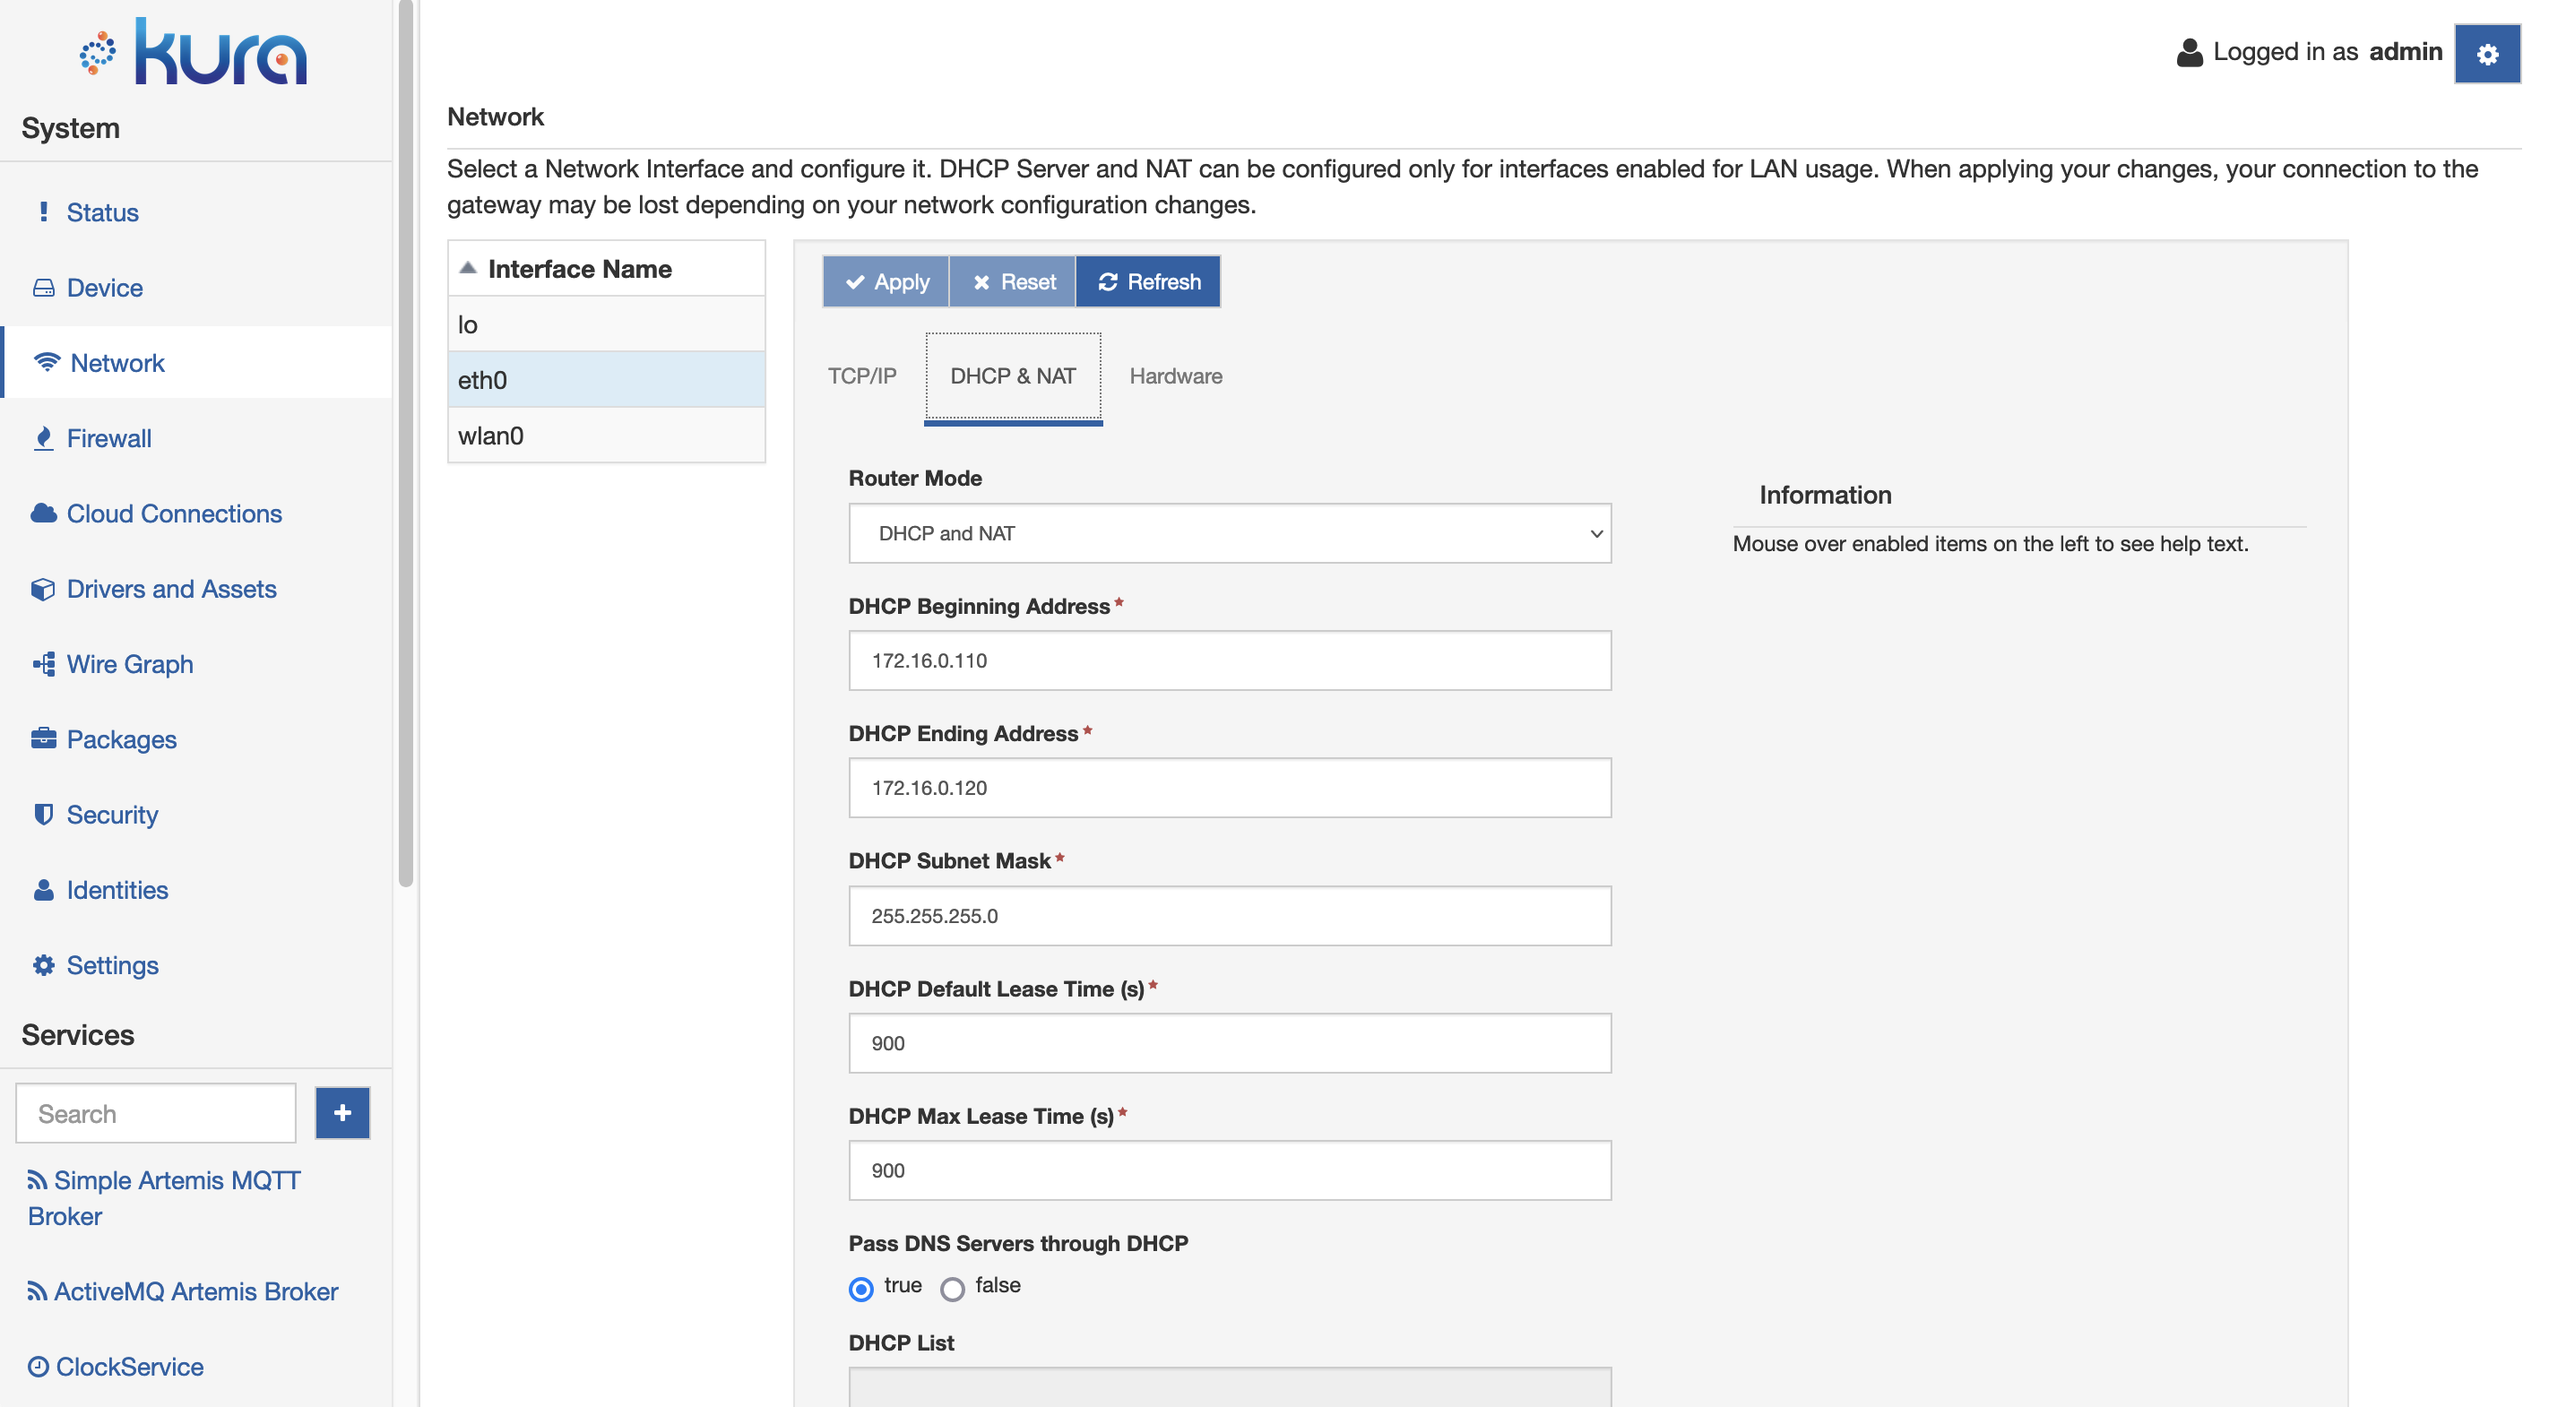
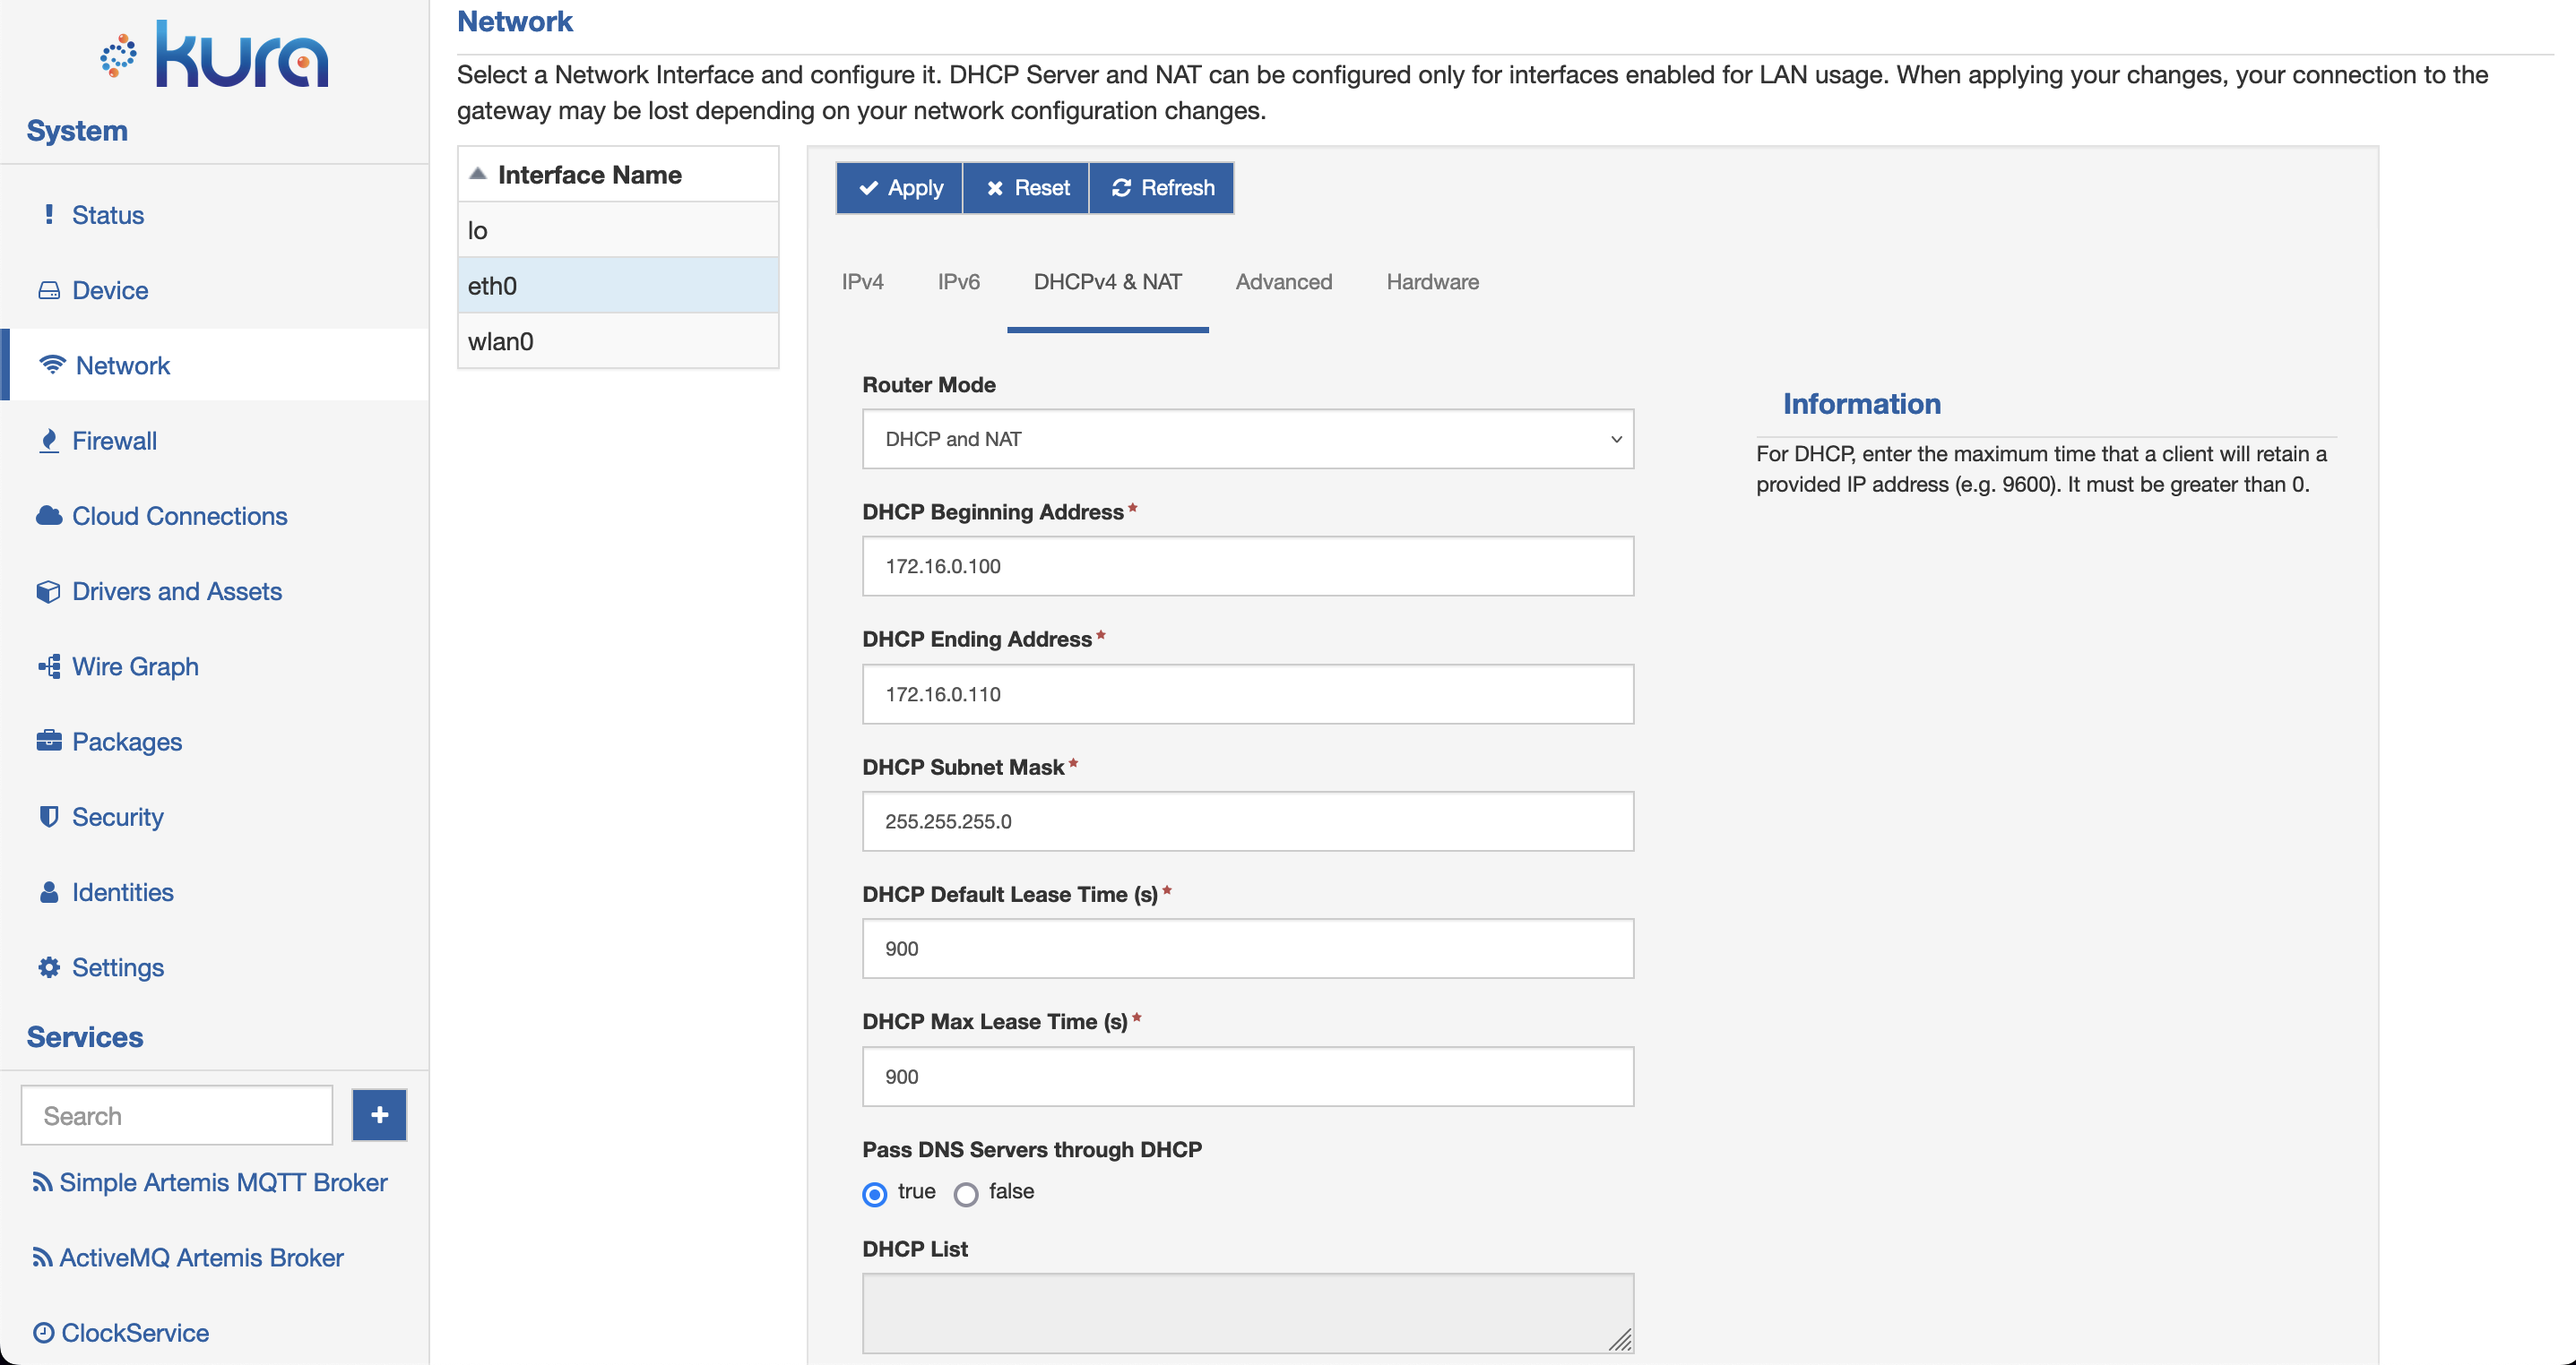
Updated network configuration page

diff --git a/docs/gateway-configuration/network-configuration.md b/docs/gateway-configuration/network-configuration.md
@@ -6,30 +6,38 @@ In case of typing errors, the **Reset** button can be used to reload the prior c
 Since the network configuration shown on the screen may not be synchronized with the current state of the system, it can be updated pressing the **Refresh** button. This can be used also to force the reload of specific parameters like the RSSI or dynamic IP addresses. The refresh procedure reads all the needed parameters from the system and can take several seconds before updating.
 
 !!! tip
-    It is recommended that the **TCP/IP** tab is configured first since it defines how the interface is going to be used.
+    It is recommended that the **IPv4** or **IPv6** tab is configured first since it defines how the interface is going to be used.
 
 ## TCP/IP Configuration
 
-The **TCP/IP** tab contains the following configuration parameters:
+The **IPv4** and **IPv6** tabs contain the following configuration parameters:
 
 - **Status**
     - Disabled: disables the selected interface (i.e., administratively down).
     - Enabled for LAN: designates the interface for a local network. It can be set as a DHCP server for hosts on the local network and can serve as a default gateway for those hosts; however, it cannot be set as an actual gateway interface for this device. That is, packets must be routed from this interface to another interface that is configured as WAN. The interface is automatically brought up at boot.
     - Enabled for WAN: designates the interface as a gateway to an external network. The interface is automatically brought up at boot.
-    - Not Managed: the interface will be ignored by Kura.
-    - Layer 2 Only: only the Layer 2 portion of the interface will be configured. The interface is automatically brought up at boot.
+    - Not Managed: the interface will be ignored by Kura (available only for **IPv4**).
+    - Layer 2 Only: only the Layer 2 portion of the interface will be configured. The interface is automatically brought up at boot (available only for **IPv4**).
+- **WAN Priority** - configure the network failover. See [here](network-failover.md) for more details.
 - **Configure**
     - Manually: allows manual entry of the _IP Address_ and _Netmask_ fields, if the interface is configured as LAN; allows manual entry of the _IP Address_, _Netmask_, _Gateway_, and _DNS Servers_ fields, if the interface is designated as WAN.
-    - Using DHCP: configures the interface as a DHCP client obtaining the IP address from a network DHCP server.
+    - Using DHCP/DHCPv6: configures the interface as a DHCP client obtaining the IP address from a network DHCP server.
+    - Stateless Address Auto-Configuration (SLAAC): automatically assign an IP address (available only for **IPv6**).
+- **Address Generation Mode** - defines the method used to automatically generate the IP address with SLAAC (available only for **IPv6**)
+    - EUI64: use EUI-64 method for address generation
+    - Stable-privacy: use RFC7217 method for address generation
 - **IP Address** - defines the IP address of the interface, if manually configured.
 - **Subnet Mask** - defines the subnet mask of the interface, if manually configured.
 - **Gateway** - specifies the default gateway for the unit. (Required field if the interface is designated as WAN and manually configured.)
 - **DNS Servers** - provides a list of DNS servers, if the interface is designated as WAN and is manually configured.
-- **Search Domains** - Not implemented.
+- **Privacy** - configure privacy extension for SLAAC (available only for **IPv6**).
+    - Disabled: disables the privacy extension.
+    - Prefer public addresses: use public address for outgoing traffic.
+    - Prefer temporary addresses: prefer temporary address for outgoing traffic.
 
-If the network interface is *Enabled for LAN* and manually configured (i.e., not a DHCP client), the **DHCP & NAT** tab allows the DHCP server to be configured and/or NAT (IP forwarding with masquerading) to be enabled.
+If the network interface is configured as *Enabled for LAN* and manually configured (i.e., not a DHCP client) in the **IPV4** tab, the **DHCPv4 & NAT** tab allows the DHCP server to be configured and/or NAT (IP forwarding with masquerading) to be enabled.
 
-### More details about the Not Managed interface Status
+### More details about the Not Managed interface Status - (TBD: not applicable in NM)
 
 When a network interface is configured as **Not Managed**, Kura will ignore it and the configuration will not be touched. The user can configure the interface with the network tools provided by the OS, allowing unusual network setups.
 
@@ -48,15 +56,15 @@ To avoid device misconfigurations when **Not Managed** interfaces are used, **do
 
 ![Network Configuration TCP/IP](./images/network-configuration-tcpip.png)
 
-## DHCP & NAT Configuration
+## DHCPv4 & NAT Configuration
 
-The **DHCP & NAT** tab contains the following configuration parameters:
+The **DHCPv4 & NAT** tab contains the following configuration parameters:
 
 - **Router Mode**
-  - DHCP and NAT: indicates that both DHCP server and NAT are enabled.
-  - DHCP Only: indicates that DHCP server is enabled and NAT is disabled.
-  - NAT Only: indicates that NAT is enabled and DHCP server is disabled.
-  - Off: indicates that both DHCP server and NAT are disabled.
+    - DHCP and NAT: indicates that both DHCP server and NAT are enabled.
+    - DHCP Only: indicates that DHCP server is enabled and NAT is disabled.
+    - NAT Only: indicates that NAT is enabled and DHCP server is disabled.
+    - Off: indicates that both DHCP server and NAT are disabled.
 - **DHCP Beginning Address**: specifies the first address of DHCP pool (i.e., first available client IP address).
 - **DHCP Ending Address**: specifies the last address of DHCP pool (i.e., last IP address that can be assigned to a client).
 - **DHCP Subnet Mask**: defines the subnet mask that is assigned to a client.
@@ -64,7 +72,7 @@ The **DHCP & NAT** tab contains the following configuration parameters:
 - **DHCP Max Lease Time**: sets the maximum time (in minutes) that the client retains the provided IP address. It must be greater than 0.
 - **Pass DNS Servers through DHCP**: enables DNS Proxy (i.e., passing DNS servers through DHCP).
 
-If NAT is enabled and there is another interface designated as WAN (e.g., ppp0), the following iptables rules are added to the *custom automatic NAT service rules*_* section of the `/etc/init.d/firewall` script:
+If NAT is enabled and there is another interface designated as WAN (e.g., ppp0), the following iptables rules are added to the *custom automatic NAT service rules* section of the `/etc/init.d/firewall` script:
 
 ```shell
 # custom automatic NAT service rules (if NAT option is enabled for LAN interface)
@@ -80,7 +88,7 @@ Also, IP forwarding is enabled in the kernel as follows:
 echo 1 > /proc/sys/net/ipv4/ip_forward
 ```
 
-The rules shown above create an *Overloaded*_* (i.e., many-to-one) NAT. This type of network address translation maps multiple IP addresses on the LAN side to a single IP address on the WAN side, allowing internet access from hosts on a local network via a gateway (WAN) interface. Note that for NAT rules to be added, it is insufficient to enable NATing through the **DHCP & NAT** tab of the LAN interface; there must also be another interface designated as WAN.
+The rules shown above create an *Overloaded* (i.e., many-to-one) NAT. This type of network address translation maps multiple IP addresses on the LAN side to a single IP address on the WAN side, allowing internet access from hosts on a local network via a gateway (WAN) interface. Note that for NAT rules to be added, it is insufficient to enable NATing through the **DHCPv4 & NAT** tab of the LAN interface; there must also be another interface designated as WAN.
 
 ![Network Configuration DHCP and NAT](./images/network-configuration-dhcp-nat.png)
 
